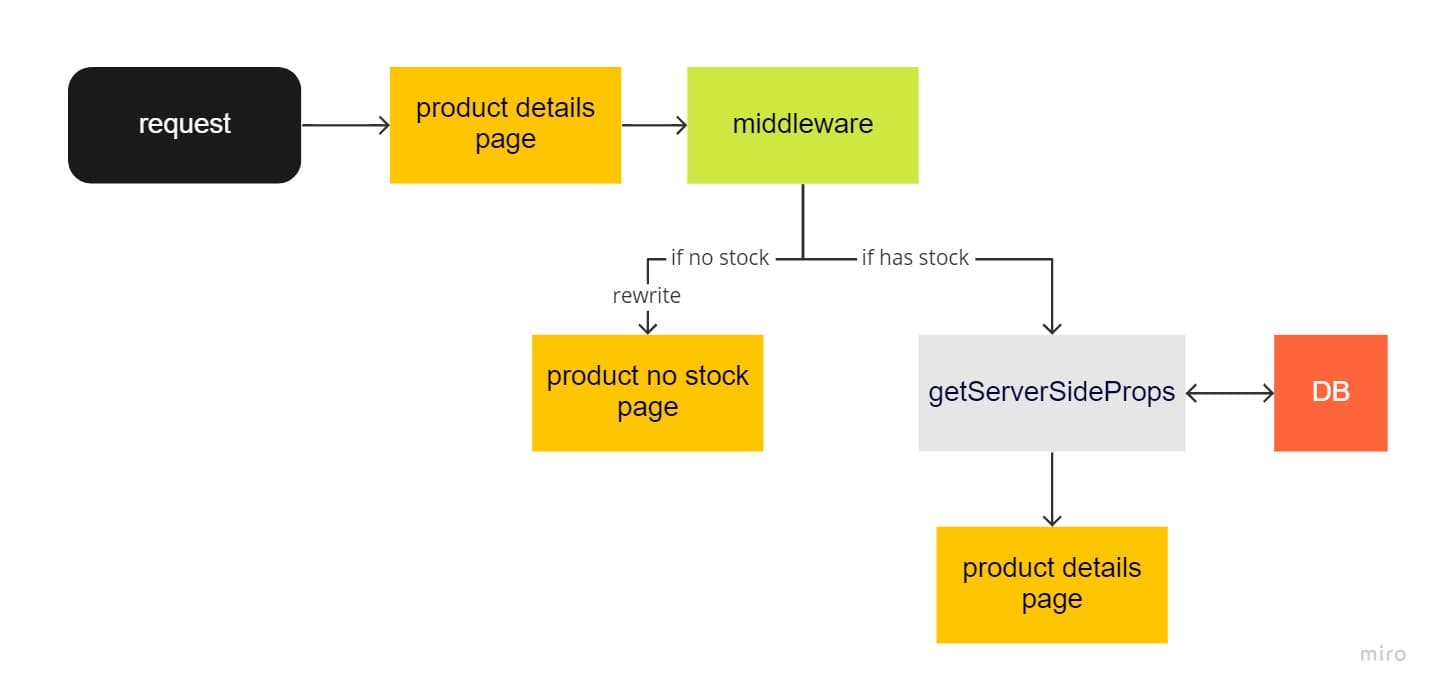
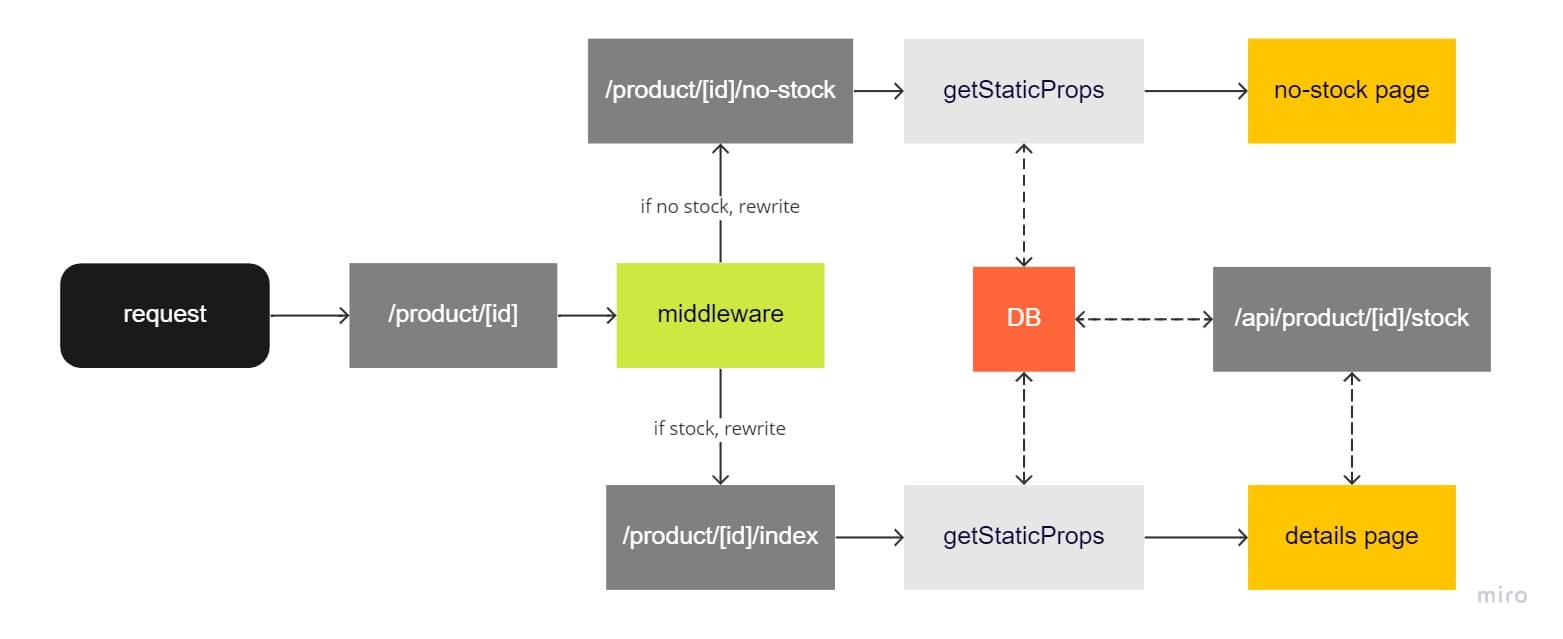
Update implementation

diff --git a/edge-functions/rewrites-upstash/pages/index.tsx b/edge-functions/rewrites-upstash/pages/index.tsx
@@ -44,12 +44,12 @@ function Home({products}: Props) {
 
       <section className="flex flex-col gap-6">
         <Text variant="h1">Rewriting at the edge using Upstash</Text>
-        <Text>It's a common case to have a details page of a product or item and request our database every time a user requests the page.</Text>
-        <Text>Sometimes we don't have stock but we still hit our services, which may take a good amount of time depending on where the source is and it can be expensive depending on how many requests for that page we have.</Text>
-        <Text>We can take some strategies to get faster responses using the edge, checking with a Redis cache if we have stock for our product and rewriting to a previously generated static no stock page of our product. That way we not only reduce the TTFB due to low latency responses and serving static content, but also reduces the amount of connections to our database and we avoid redirects (improving SEO) and improves UX (avoiding spinners / skeletons while we check if we have stock or not)</Text>
-        <Text>Lets imagine the flow of an e-commerce site that use <Code>getServerSideProps</Code> to get the latest data for a product details page:</Text>
+        <Text>It's a common case to have a details page of a product or item and request our database for stock every time a user requests the page (althought our page might be using ISR and we fetch the stock client side).</Text>
+        <Text>Sometimes we don't have stock but we still hit our DB (API then DB if doing CSR), which may take a good amount of time depending on where the source and our API are and it may be expensive depending on how many requests for that page we have.</Text>
+        <Text>We can take some strategies to get faster responses using the edge, storing and checking in Upstash (a Redis cache service) if we have ran out of stock for a product and rewriting to a previously generated static no-stock page for that specific product. That way we reduce the amount of connections to our database, avoid uninteractive page due to disabled buy buttons, reduce layout shift in case the UI for no-stock page changes a lot, while having low latency by embracing the edge.</Text>
+        <Text>Imagine the next flow of an e-commerce site product details page:</Text>
         <Image src={notOptimizing} />
-        <Text>Now, lets check at the edge if we have stock with a Redis cache and rewrite in case we don't have stock:</Text>
+        <Text>Now, lets check at the edge if we have stock using Upstash and rewrite to the correct page:</Text>
         <Image src={optimizing} />
         <Text>Thats it, we only have to toggle the flag when we add an item or run out of stock.</Text>
       </section>
@@ -61,8 +61,8 @@ function Home({products}: Props) {
           Implementing the solution
         </Text>
         <Text>For this example we will have 3 files related to the product details page. <Code>/pages/product/[id]/no-stock.js</Code>, <Code>/pages/product/[id]/index.js</Code> and <Code>/pages/product/[id]/_middleware.js</Code>.</Text>
-        <Text>Lets start with our <Code>/pages/product/[id]/index.js</Code> <Code>getServerSideProps</Code> function:</Text>
-        <Snippet>{`export const getServerSideProps = async ({params}) => {
+        <Text>Lets start with our <Code>/pages/product/[id]/index.js</Code>:</Text>
+        <Snippet>{`export const getStaticProps = async ({params}) => {
   const product = await api.fetch(params.id)
 
   if (!product) {
@@ -72,6 +72,7 @@ function Home({products}: Props) {
   }
 
   return {
+    revalidate: 10,
     props: {
       product
     }
@@ -100,12 +101,13 @@ export async function middleware(req) {
 }
 `}
         </Snippet>
+        <Text>Now we will only get to the details screen if we have stock.</Text>
       </section>
 
       <hr className="border-t border-accents-2 my-6" />
 
       <section className="flex flex-col gap-6">
-        <Text>Go to this products and play around with their stock, you should be rewrited correctly based on its stock.</Text>
+        <Text>Go to this products and play around with their stock and you will be rewrited to the correct page.</Text>
         <article className="flex flex-col gap-3">
           {products.map(product => (
             <Link key={product.id} href={`/product/${product.id}`}>

diff --git a/edge-functions/rewrites-upstash/pages/product/[id]/index.tsx b/edge-functions/rewrites-upstash/pages/product/[id]/index.tsx
@@ -1,8 +1,8 @@
 import type { ParsedUrlQuery } from 'querystring'
-import type { GetServerSideProps } from 'next'
+import type { GetStaticProps } from 'next'
 import type { Product } from '../../../types'
 
-import { Layout, Page, Link, Button } from '@vercel/examples-ui'
+import { Layout, Page, Link, Button, Text } from '@vercel/examples-ui'
 
 import api from '../../../api'
 import ProductCard from '../../../components/ProductCard'
@@ -16,7 +16,7 @@ interface Query extends ParsedUrlQuery {
   id: string;
 }
 
-export const getServerSideProps: GetServerSideProps<Props, Query> = async ({params}) => {
+export const getStaticProps: GetStaticProps<Props, Query> = async ({params}) => {
   const product = await api.fetch((params as Query).id)
 
   if (!product) {
@@ -25,16 +25,8 @@ export const getServerSideProps: GetServerSideProps<Props, Query> = async ({para
     }
   }
 
-  if (!product.stock) {
-    return {
-      redirect: `/${product.id}/no-stock`,
-      props: {
-        product
-      }
-    }
-  }
-
   return {
+    revalidate: 10,
     props: {
       product
     }
@@ -53,8 +45,17 @@ function ProductDetails({product}: Props) {
   return (
     <Page>
       <section className="flex flex-col gap-6 items-center">
-        <ProductCard product={product} />
-        <Button loading={isLoading} onClick={handleBuy}>Buy all stock</Button>
+        {product.stock ? (
+          <>
+            <ProductCard product={product} />
+            <Button loading={isLoading} onClick={handleBuy}>Buy all stock</Button>
+          </>
+        ) : (
+          <article className="flex flex-col gap-1 items-center">
+            <Text>This product is awesome ({product.title})!</Text>
+            <Text>But we ran out of stock 😓</Text>
+          </article>
+        )}
         <Link href="/">Go back to index</Link>
       </section>
     </Page>
